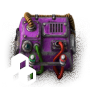
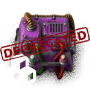
feat: migrate to khaoscircuitry

Changed region(s): [[0.0, 0.2889, 1.0, 0.6889]]

diff --git a/README.md b/README.md
@@ -1,7 +1,6 @@
-[![Factorio Mod Portal page](https://img.shields.io/badge/dynamic/json?color=orange&label=Factorio&query=downloads_count&suffix=%20downloads&url=https%3A%2F%2Fmods.factorio.com%2Fapi%2Fmods%2FPollutionCombinator-JamieFork-Tweaks&style=for-the-badge)](https://mods.factorio.com/mod/PollutionCombinator-JamieFork-Tweaks) [![](https://img.shields.io/github/issues/QuingKhaos/PollutionCombinator-JamieFork-Tweaks/bug?label=Bug%20Reports&style=for-the-badge)](https://github.com/QuingKhaos/PollutionCombinator-JamieFork-Tweaks/issues?q=is%3Aissue%20state%3Aopen%20label%3Abug) [![](https://img.shields.io/github/issues-pr/QuingKhaos/PollutionCombinator-JamieFork-Tweaks?label=Pull%20Requests&style=for-the-badge)](https://github.com/QuingKhaos/PollutionCombinator-JamieFork-Tweaks/pulls) [![Ko-fi](https://img.shields.io/badge/Ko--fi-support%20me-ff5e5b?logo=kofi&logoColor=white&style=for-the-badge)](https://ko-fi.com/quingkhaos)
+[![The Foundry](https://img.shields.io/badge/foundrygg-4a1402?style=for-the-badge&logo=vercel&logoColor=white)](https://foundrygg.com/)
+[![Discord community](https://img.shields.io/badge/Discord-%235865F2.svg?style=for-the-badge&logo=discord&logoColor=white)](https://discord.gg/SYmkaDjFCt)
 
-# Pollution Combinator (Jamie's Fork) Tweaks
+# [DEPRECATED] Pollution Combinator (Jamie's Fork) Tweaks
 
-Opinionated tweaks to [Pollution Combinator (Jamie's Fork)](https://mods.factorio.com/mod/PollutionCombinator-JamieFork). For a full list of changes, take a look at the changelog.
-
-If you want to see some new tweaks, feel free to open a discussion thread on the mod portal or a GitHub issue. Eventually some non so opiniated tweaks will make it into the original mod.
+Functionality migrated to [QuingKhaos' Circuitry Tweaks](https://mods.factorio.com/mod/khaoscircuitry).